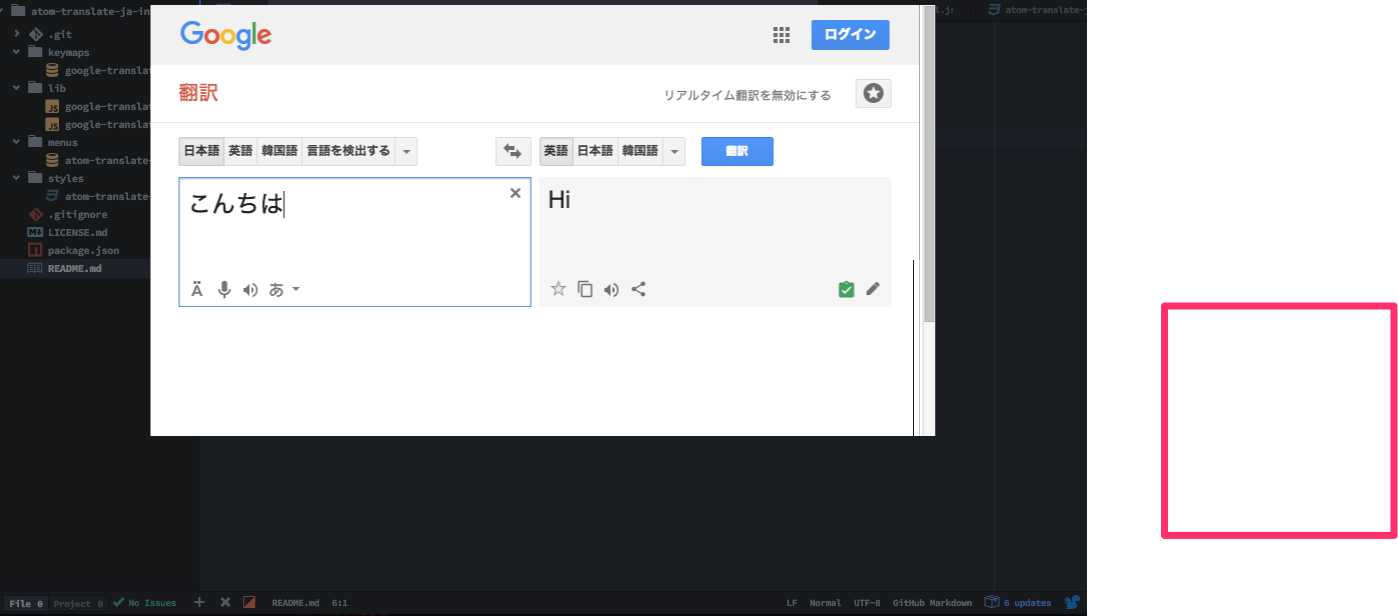
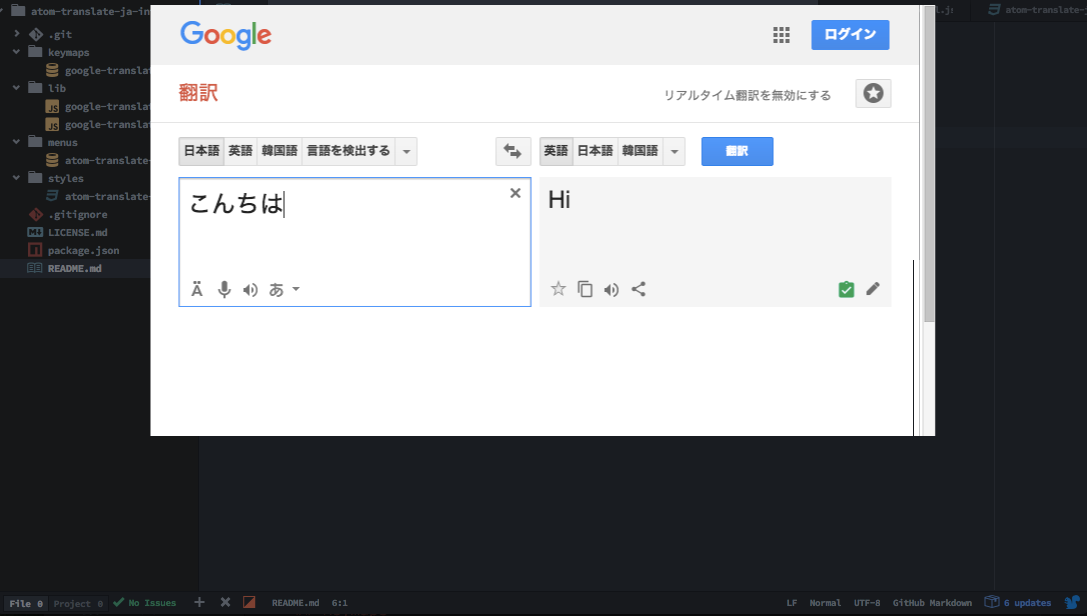
Change readme

diff --git a/README.md b/README.md
@@ -2,7 +2,7 @@
 
 Add modal google translate page
 
-![Atom Google Translate Modal]()
+![Atom Google Translate Modal](https://raw.githubusercontent.com/nju33/atom-google-translate-modal/master/screenshot.png)
 
 ## Keymap
 
